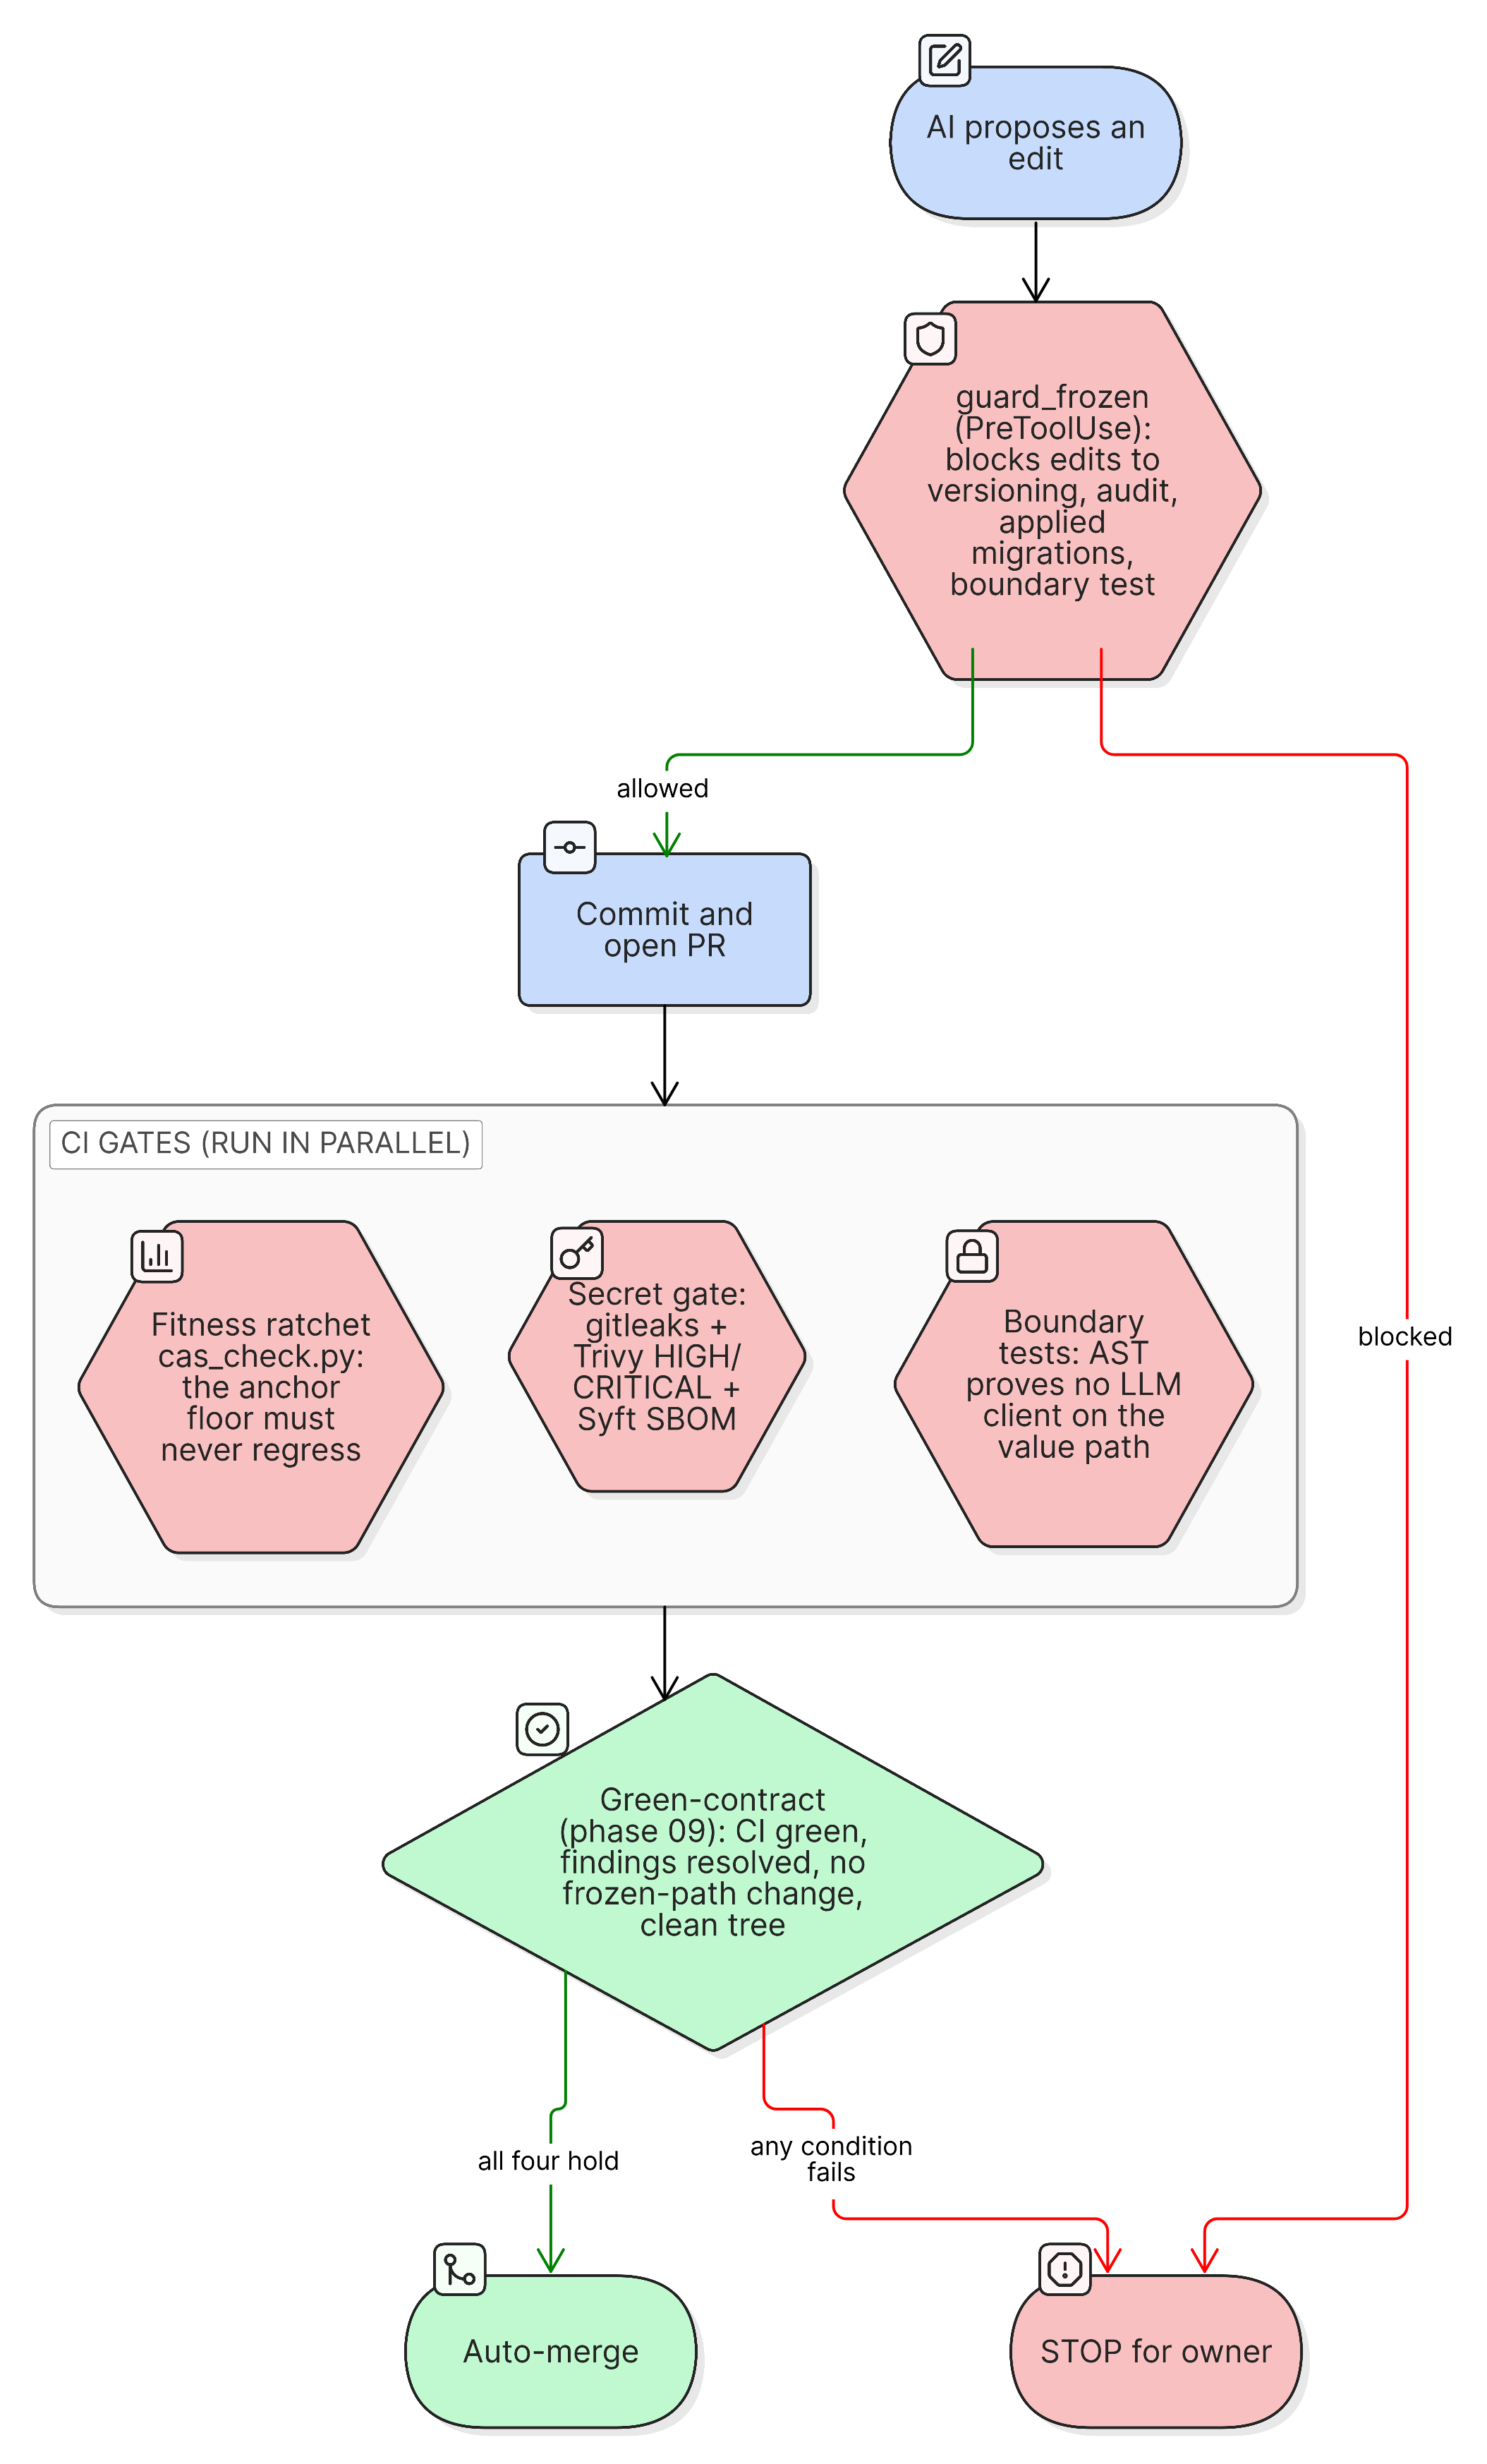
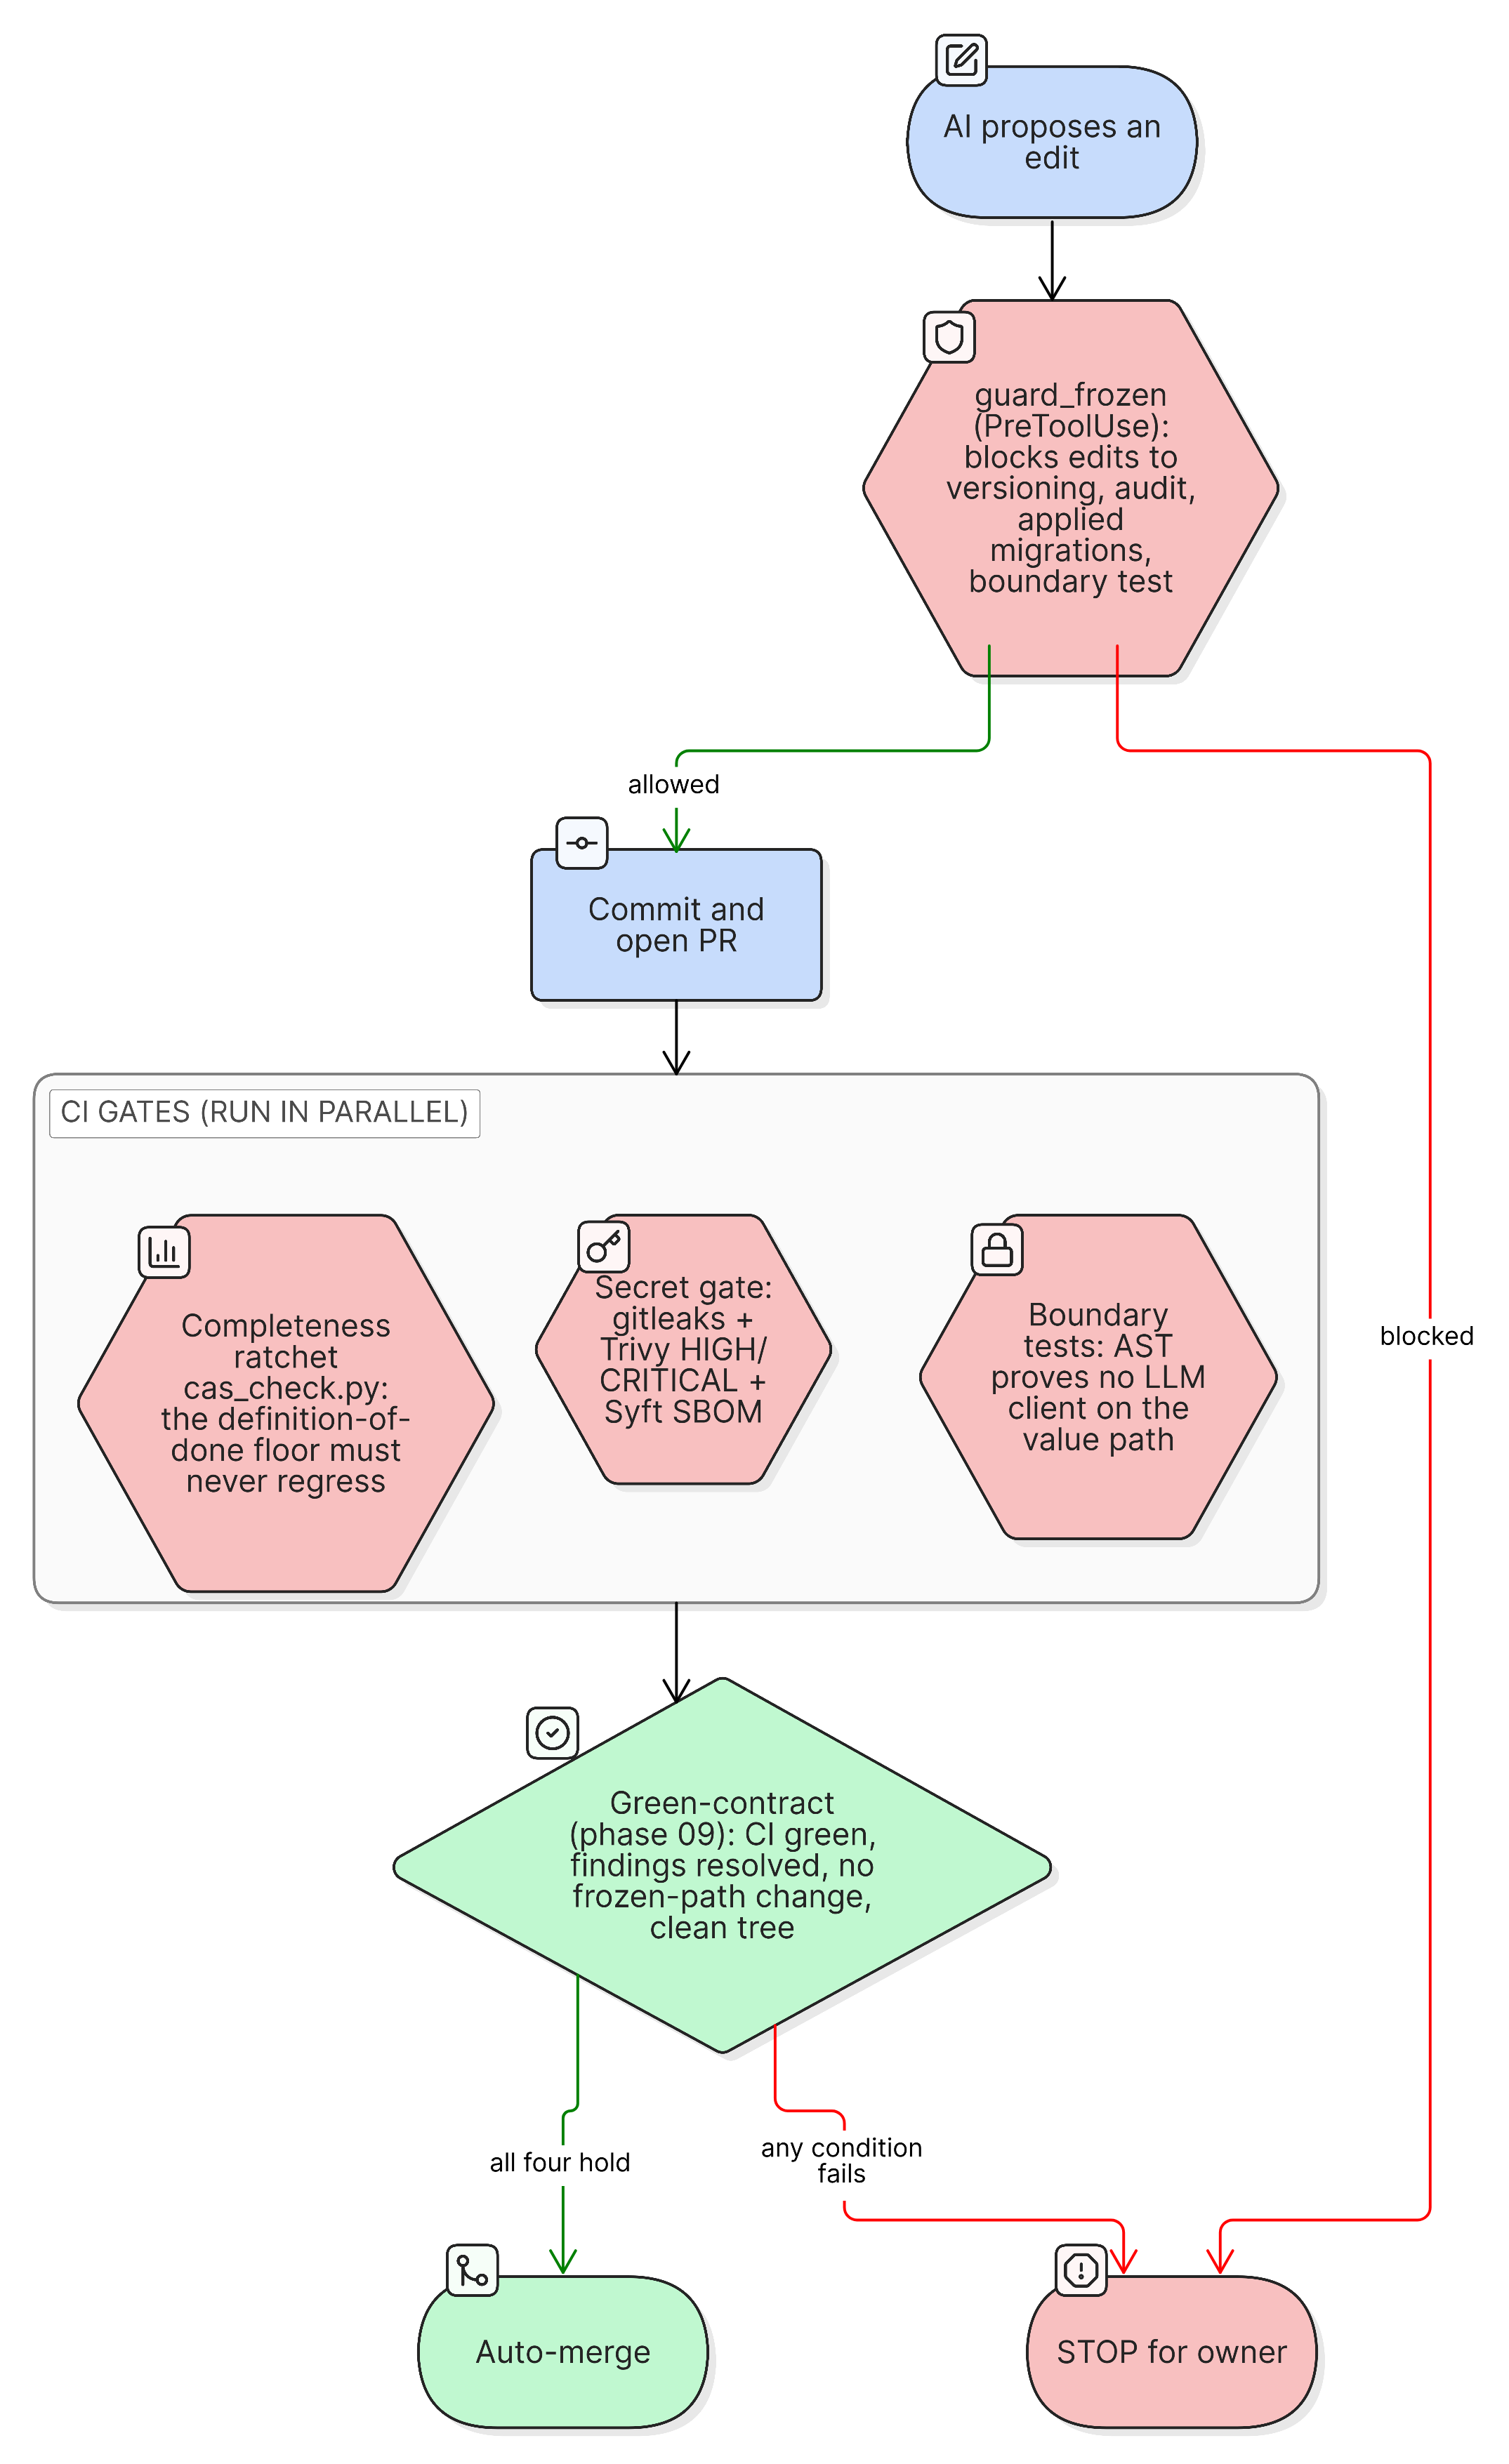
chore: neutralise public rubric framing; finalize Eigenständigkeit + deck
Reframe public 'CAS grading floor / grading-anchor ratchet' to neutral 'structural-completeness / definition-of-done floor' (ci.yml, the two ratchet diagrams re-rendered, ai-se-framework, aise-harness, shipboard, CAS deck). Relocate the AGENTS.md grading-anchors section to a git-ignored docs/cas/ file. Tool, checks, baseline and criterion map unchanged.

Eigenstaendigkeit page: official German Selbstaendigkeitserklaerung verbatim; note the wet-signed original is submitted as a PDF.

Deck: 319 tests, 19 ADRs, 235 commits, ADR-019 error-layer line, neutral labels.

diff --git a/docs/presentation/index.html b/docs/presentation/index.html
@@ -674,7 +674,7 @@
             <hr class="rule">
             <ul>
               <li class="fragment lift">Reads real pipeline events, git and CI state, the fitness function</li>
-              <li class="fragment lift">Tabs: pipeline · per-agent cost · grading floor · the loop</li>
+              <li class="fragment lift">Tabs: pipeline · per-agent cost · completeness floor · the loop</li>
               <li class="fragment lift">Its rule: <strong>never assert a state it cannot show evidence for</strong></li>
             </ul>
           </div>

diff --git a/tools/shipboard/shipboard.py b/tools/shipboard/shipboard.py
@@ -1244,7 +1244,7 @@ def state():
             "alerts": al[:8], "sessions": discover_sessions(), "loop": loop_state(),
             "approvals": approvals()}
 
-# ---------------- CAS structural floor (tools/cas_check.py, cached 60s) ----------------
+# ---------------- Structural-completeness floor (tools/cas_check.py, cached 60s) ----------------
 
 _CAS = {"ts": 0.0, "data": None, "mod": None}
 
@@ -1923,7 +1923,7 @@ background:rgba(125,211,252,.1);border:1px solid var(--edge);color:var(--dim);ma
     </div>
   </div>
 </div>
-<div class="foot">shipboard v9 · one file · stdlib · click anything for its evidence · data: /ship emits + hooks + transcripts (sidechain x-ray, UTC→local) + gh + repo + vault wikilinks + graphify + grading anchors · keys: 1-9 tabs, Esc closes inspector</div>
+<div class="foot">shipboard v9 · one file · stdlib · click anything for its evidence · data: /ship emits + hooks + transcripts (sidechain x-ray, UTC→local) + gh + repo + vault wikilinks + graphify + completeness floor · keys: 1-9 tabs, Esc closes inspector</div>
 </div>
 <div id="ovl" onclick="closeInsp()"></div>
 <div id="insp"><div class="ih"><span class="it" id="it">inspector</span><span class="ix" onclick="closeInsp()">✕</span></div><div class="ib" id="ib">—</div></div>
@@ -2547,7 +2547,7 @@ async function tick(){
       '<span class="meta">'+bar+' '+c.passed+'/'+c.applicable+(c.due?(' +'+c.due):'')+
       (c.est!=null?' · ≈'+c.est+'/'+c.w:'')+(c.reg?' 🔻':'')+'</span></div>';
   }).join('')+(cas.audit?'<div class="s" style="margin-top:6px">audit estimate ≈'+cas.audit.total+'/100 · '+esc(cas.audit.date)+' (estimate, not the grader)</div>':'')
-   : '<div class="empty">tools/cas_check.py not found — sync it to enable the grading floor</div>';
+   : '<div class="empty">tools/cas_check.py not found — sync it to enable the completeness floor</div>';
   document.getElementById('svc').innerHTML=(p.services||[]).map(x=>'<div class="prow" style="margin:4px 0"><span class="pk">'+esc(x.n)+'</span><span class="pv">'+x.src+' / <span style="color:var(--ok)">'+x.tests+'</span></span></div>').join('')||'<div class="s">no services yet</div>';
   document.getElementById('adrn2').textContent=p.adrs.count;
   document.getElementById('adrlist').innerHTML=p.adrs.list.map(a=>{

diff --git a/docs/method/eigenstaendigkeit.md b/docs/method/eigenstaendigkeit.md
@@ -2,32 +2,26 @@
 
 *Authorship confirmation for the FFHS CAS "AI‑Assisted Software Engineering" Projektarbeit (criterion 15).*
 
-This project was built with heavy, deliberate AI assistance — that is the point of the
-module, and the apparatus is documented in full rather than hidden. **How** AI was used per
-phase (generation, review, refactoring, research) is in
-[AI Tools & Workflow](ai-tools.md); the method and its governance are in
-[The AI‑SE Framework](ai-se-framework.md); and the honest reflection — including the
-decisions that were never delegated to the AI — is in the [Conclusion](fazit.md).
+AI was used as a tool throughout, documented per phase in [AI Tools & Workflow](ai-tools.md),
+with the method and guardrails in [The AI‑SE Framework](ai-se-framework.md) and the reflection
+in the [Conclusion](fazit.md). The use of AI does not dilute authorship: every suggestion
+passed through a human gate and was accepted, corrected or rejected on the record (see
+[`LEARNINGS.md`](https://github.com/erhanuenlue/tarifhub/blob/main/LEARNINGS.md)), and **every
+part of the solution is explainable by me**.
 
-The use of AI does not dilute authorship. Every generated line passed through a human gate
-before it landed; suggestions were accepted, corrected or rejected on the record (see
-[`LEARNINGS.md`](https://github.com/erhanuenlue/tarifhub/blob/main/LEARNINGS.md)); and the
-determinism boundary, the freeze‑line guard (`guard_frozen`) and the approval bridge exist
-precisely so that control over the result stayed with the author.
+## Selbständigkeitserklärung
 
-## Bestätigung
+Hiermit erkläre ich,
 
-> Ich bestätige, dass ich diese Projektarbeit **eigenständig und mit KI‑Unterstützung**
-> erstellt habe. Die eingesetzten KI‑Werkzeuge dienten als Hilfsmittel unter meiner Leitung;
-> alle Vorschläge habe ich geprüft und angenommen, korrigiert oder verworfen.
-> **Jeder Teil der Lösung ist von mir erklärbar**, und ich übernehme die Verantwortung für
-> das Ergebnis.
+- dass ich die vorliegende Arbeit selbstständig verfasst habe,
+- dass alle sinngemäss und wörtlich übernommenen Textstellen aus fremden Quellen kenntlich gemacht wurden,
+- dass alle mit Hilfsmitteln erbrachten Teile der Arbeit präzise deklariert wurden,
+- dass keine anderen als die im Hilfsmittelverzeichnis aufgeführten Hilfsmittel verwendet wurden,
+- dass das Thema, die Arbeit oder Teile davon nicht bereits Gegenstand eines Leistungsnachweises eines anderen Moduls waren, sofern dies nicht ausdrücklich mit der Dozentin oder dem Dozenten im Voraus vereinbart wurde,
+- dass ich mir bewusst bin, dass meine Arbeit elektronisch auf Plagiate und auf Drittautorschaft menschlichen oder technischen Ursprungs überprüft werden kann und ich hiermit der FFHS das Nutzungsrecht so weit einräume, wie es für diese Verwaltungshandlungen notwendig ist.
 
-*(I confirm that I produced this Projektarbeit independently, with AI support. The AI tools
-were aids used under my direction; I reviewed every suggestion and accepted, corrected or
-rejected it. I can explain every part of the solution, and I take responsibility for the
-result.)*
+Die eingesetzten KI‑Werkzeuge sind in [AI Tools & Workflow](ai-tools.md) aufgeführt.
 
-**Erhan Ünlü** · Juni 2026
+**Erhan Ünlü**
 
-<small>A wet‑signed copy is held by the author and available on request.</small>
+<small>Die unterzeichnete Originalfassung dieser Erklärung wird als wet‑signed PDF eingereicht.</small>

diff --git a/AGENTS.md b/AGENTS.md
@@ -1,21 +1,6 @@
 # tarifhub — Project Facts (read first)
 
-Swiss ambulatory tariff data platform. Four layers: L0 harmonisation (AI-assisted, pre-freeze) → L1 deterministic serving API + MCP → L2 rules (post-CAS) → L3 apps (demo now). **CAS capstone due Mon 6 July 2026, 00:00.** Deliverable: the public repository + the GitHub Pages documentation site. Grading strategy lives in Erhan's corpus (CAS Dossier v3.1); the operative grading anchors every session must honour are below.
-
-## CAS grading anchors — operative (official Bewertungskriterien, 12 Jun 2026)
-
-Scoring is **conjunctive**: a criterion's level is awarded only if **all** of its anchors hold — one missing element drops the whole tier. 18 criteria / 100 pts (Spezifikation 15 · Entwurf 17 · Programmierung 22 · Validierung 16 · KI und Architektur 30). Language, framework and architecture style are free; a modular monolith is *gleichwertig* to distributed services. The non-obvious top-anchor requirements:
-
-- **Evidence standard (crit 14):** pipeline output **quoted and interpreted** in the report — a screenshot or an unbacked "all green" is the *1-point* anchor. Never present a screenshot as the evidence; it only illustrates.
-- **Learnings (crit 9):** every entry with a diff or commit ref, especially where AI suggestions were **accepted, corrected or rejected**.
-- **Spec shape (crits 1–3):** a marked core set of **3–5 Kernfunktionen** with actors + business benefit, stakeholders identified; ≥3 NfAs each with **Zielwert + Messverfahren + visible ADR link**; **one KI-Nutzen sentence per Kernfunktion** in the vision.
-- **Acceptance criteria (crit 11):** testable, per Kernfunktion, with **explicit cross-references to the NfAs**.
-- **Test strategy (crit 12):** must explicitly address **Tests der KI-Anteile** — guardrail behaviour and non-deterministic responses (our boundary test, gap-gate tests, fill-reuse determinism tests, named as such).
-- **AI-tools chapter (crit 15):** tools named; structured **by phase — Generierung · Review · Refactoring · Recherche** — each claim evidenced by prompts/diffs/commit refs. That is the whole of crit 15 for this CAS; nothing further is required (exact level conditions in the git-ignored rubric reference).
-- **Fazit (crit 18):** built on **three veto decisions ("nie an die KI delegiert") — concrete, justified, evidenced** — plus the transfer to future working practice. House vetoes: the freeze line · human gates over plans/merges · final acceptance (the go-live decision and making the work public).
-- **Report-wide (crits 4/8/17):** a **durchgängiger roter Faden** Problemstellung→Lösung→Fazit; framework choice justified in the report (ADR-001); container/architecture style choice justified (ADR-002/006).
-
-**Full anchor text (all 18 criteria, all levels):** `docs/cas/bewertungskriterien-anker.md` — local working reference, **git-ignored** (course-internal material; this repo goes public in Block 3). Consult it whenever a criterion's exact level conditions matter.
+Swiss ambulatory tariff data platform. Four layers: L0 harmonisation (AI-assisted, pre-freeze) → L1 deterministic serving API + MCP → L2 rules (post-CAS) → L3 apps (demo now). **CAS capstone due Mon 6 July 2026, 00:00.** Deliverable: the public repository + the GitHub Pages documentation site. Grading strategy lives in Erhan's corpus (CAS Dossier v3.1). The full rubric and its operative summary are kept in the git-ignored, course-internal reference under `docs/cas/` (not published); consult them locally when a criterion's exact conditions matter.
 
 ## The one inviolable rule
 

diff --git a/docs/method/ai-se-framework.md b/docs/method/ai-se-framework.md
@@ -100,7 +100,7 @@ Codex login and reviews every pull request (section 7).
 
 Two loops sit on top of the pipeline. The fixed loop (`tools/loop.sh`) runs a known list of prompts
 back to back, headless, checking a completion contract between each step and halting to me with a
-reason if anything fails. Its between-step contract is explicit: zero CAS ratchet regressions, a
+reason if anything fails. Its between-step contract is explicit: zero completeness ratchet regressions, a
 non-decreasing fitness floor, a clean working tree, and no secret leak. The self-prompting loop
 (the auto-loop) closes the planning layer too: each iteration reads the current state, writes the
 next task as a prompt itself, runs it through `/ship`, checks the contract, and repeats until a
@@ -140,7 +140,7 @@ An enforced, tested boundary is what makes increasing autonomy safe.
 - The green-contract governs autonomous merge. Phase 09 merges only when all four conditions hold:
   CI is fully green including the security and boundary tests, every review finding is resolved or
   explicitly dispositioned with no open P1 or P2, the diff touches no frozen path beyond what I
-  authorised this session, and the working tree is clean with the branch current. The CAS fitness
+  authorised this session, and the working tree is clean with the branch current. The completeness
   ratchet showing no regression is folded into the same contract: a regression is a failing check
   that blocks the merge. Anything less stops for me.
 - A secret gate runs on every loop iteration (gitleaks, with a key-shaped grep fallback) so no
@@ -168,7 +168,7 @@ isolated commit with the diff shown first. The worked record is in the
 GitHub Actions enforces the same standards a reviewer would, on every push and pull request
 (`.github/workflows/ci.yml`): lint and format (ruff), the full offline test suite, the determinism
 boundary tests printed visibly in the log, a secrets scan (gitleaks), a vulnerability and SBOM scan
-(Trivy and Syft), and a dedicated ratchet job (`cas-anchors`) that runs the fitness function in
+(Trivy and Syft), and a dedicated ratchet job (`structure-floor`) that runs the fitness function in
 read-only mode (`python3 tools/cas_check.py --ci`) and fails only on a regression. Container images
 are built on the main branch as the distribution evidence. The
 documentation site builds under strict mode and deploys to GitHub Pages
@@ -181,7 +181,7 @@ before it proceeds, so a red pipeline halts the automation. The pipeline rationa
 
 ![The CI/CD pipeline](../img/diagrams/cicd-pipeline.png)
 
-> **Figure: The CI/CD pipeline.** Six jobs run in parallel on every push and pull request (lint and tests with the boundary tests, read-parity against Postgres, the console build, security with secrets, vulnerabilities and SBOM, the docs strict build, and the anchor ratchet); on main, an images job builds every container, and a separate workflow builds the docs and deploys to Pages behind an explicit gate.
+> **Figure: The CI/CD pipeline.** Six jobs run in parallel on every push and pull request (lint and tests with the boundary tests, read-parity against Postgres, the console build, security with secrets, vulnerabilities and SBOM, the docs strict build, and the completeness ratchet); on main, an images job builds every container, and a separate workflow builds the docs and deploys to Pages behind an explicit gate.
 
 ## 7. Independent second-model review
 
@@ -200,7 +200,7 @@ engineering safeguard and, for this course, evidence of genuine multi-tool AI-as
 A single-file, dependency-free dashboard (`tools/shipboard/shipboard.py`) makes the whole system
 legible. It reads explicit pipeline events, the session transcript, the git and GitHub state, the
 vault, and the fitness function, and presents them as tabs: the pipeline rail, per-agent activity
-and cost, the project and CI state, the grading floor, and a Loop tab showing run milestones plus
+and cost, the project and CI state, the completeness floor, and a Loop tab showing run milestones plus
 live agent activity. The Loop tab also carries the approval bridge: an Approvals panel, with a
 count badge in the header, that lists any side-effectful action waiting on a human and resolves it
 with an Approve or Deny button. It is one queue with two surfaces, the panel and a Telegram bot

diff --git a/aise-harness/NEXT_STEPS.md b/aise-harness/NEXT_STEPS.md
@@ -36,7 +36,7 @@ Step 6 below to build the framework chapter, diagrams, deck, and the independent
 
 - Foundation, two real sources (EAL XLSX + ePL FHIR R5), parity, search tuning,
   scale/fill-reuse hash-integrity, services + MCP: **PRs #1-#15 merged, CI green**.
-- CAS floor **51/52**, 0 regressions. Blocks measure progress, not dates:
+- Completeness floor **51/52**, 0 regressions. Blocks measure progress, not dates:
   Block 0 done 40/40 · Block 1 active 9/10 · Block 2 at 2/4 · Block 3 at 0/8.
 - Journal + fazit-note drafting is fully delegated to Codex gpt-5.5 (`tools/curate.sh`,
   owner decision 13 Jun); the loop runs it at start, after every prompt, and after the
@@ -123,7 +123,7 @@ contract check → curate → runs prompt 07 (includes the Codex gpt-5.5 documen
 and the FFHS-LaTeX PDF build) → contract check → curate → **runs /cas-audit** (grade
 estimate → CAS tab) → **codex second opinion on the estimate** (disagreements and
 missed gaps → `vault/cas-audit/`) → final curate. Between prompts the completion contract
-(zero ratchet regressions · CAS floor non-decreasing · working tree clean · latest CI
+(zero ratchet regressions · completeness floor non-decreasing · working tree clean · latest CI
 on main green) must hold, else it **halts to you with the printed reason**; fix what
 it names (or ask the orchestrator why) and rerun the printed command, it resumes from the halted
 prompt. Log: `.shipboard/loop.log` (tail -f friendly). The board shows everything
@@ -277,7 +277,7 @@ approvals off.
 ## If something looks wrong
 
 - Board badge red / phase fail → click the phase, read the evidence.
-- CAS tab shows a regression marker → a once-passing anchor element regressed; CI is
+- CAS tab shows a regression marker → a once-passing structural element regressed; CI is
   already red on it; paste the gap row's text into a session and say "fix this, then
   /ship".
 - Loop halted → read the printed reason (also in `.shipboard/loop.log`), fix, rerun
@@ -288,4 +288,4 @@ approvals off.
 ## Done means
 
 PDF uploaded and rendering on Moodle · repo public and frozen on the submitted commit ·
-`/cas-status` floor all green · journal curated through the final day. Then stop.
+`/cas-status` completeness floor all green · journal curated through the final day. Then stop.

diff --git a/aise-harness/README.md b/aise-harness/README.md
@@ -27,7 +27,7 @@ billing value at serve time* — is enforced by a git hook, not by good intentio
 | Governance hooks | [`../.claude/hooks/`](../.claude/hooks/) | `guard_frozen` (freeze‑line gate), `approval_gate`, `format`, `brain_sync`, journal + session tracking. |
 | Skills | [`../.claude/skills/`](../.claude/skills/) | `/ship` (the multi‑model pipeline), `/cas-audit`, `/cas-status`, `/new-source`. |
 | Live dashboard | [`../tools/shipboard/`](../tools/shipboard/) | The "shipboard" cockpit that watches a run in real time (`python3 tools/shipboard/shipboard.py` → :8787). |
-| Deterministic grade floor | [`../tools/cas_check.py`](../tools/cas_check.py) | ~60 anchor checks the loop and CI both ratchet against. |
+| Deterministic completeness floor | [`../tools/cas_check.py`](../tools/cas_check.py) | ~60 structural checks the loop and CI both ratchet against. |
 | Model lifecycle | [`../tools/switch_model.sh`](../tools/switch_model.sh) | Single source of truth for the orchestrator model (ADR‑018). |
 | Journal & knowledge | [`../vault/`](../vault/) · [`../knowledge/`](../knowledge/) | The contemporaneous AI‑workflow journal and decision/research notes. Excerpts feed the graded chapter `docs/method/`. |
 | AI accept / correct / reject log | [`../LEARNINGS.md`](../LEARNINGS.md) | Where AI suggestions were taken, fixed, or rejected — with refs. |
@@ -40,7 +40,7 @@ billing value at serve time* — is enforced by a git hook, not by good intentio
 # One prompt, dry run (no model spend) — replaces the model with `true`
 LOOP_CMD='true' bash tools/loop.sh 06
 
-# The grading floor the loop and CI both enforce
+# The completeness floor the loop and CI both enforce
 python3 tools/cas_check.py
 
 # Fresh-machine setup

diff --git a/vault/daily/2026-06-20.md b/vault/daily/2026-06-20.md
@@ -10,3 +10,4 @@
 
 ↩ [[00-index]] · [[fazit-notes]]
 
+<!-- session ended 08:58 · branch: main · last commit: 5e0dc02 docs: correct ADR count to 19; refresh CAS deck (319 tests, 19 ADRs, 235 commits, ADR-019); neutralise grading-floor caption -->